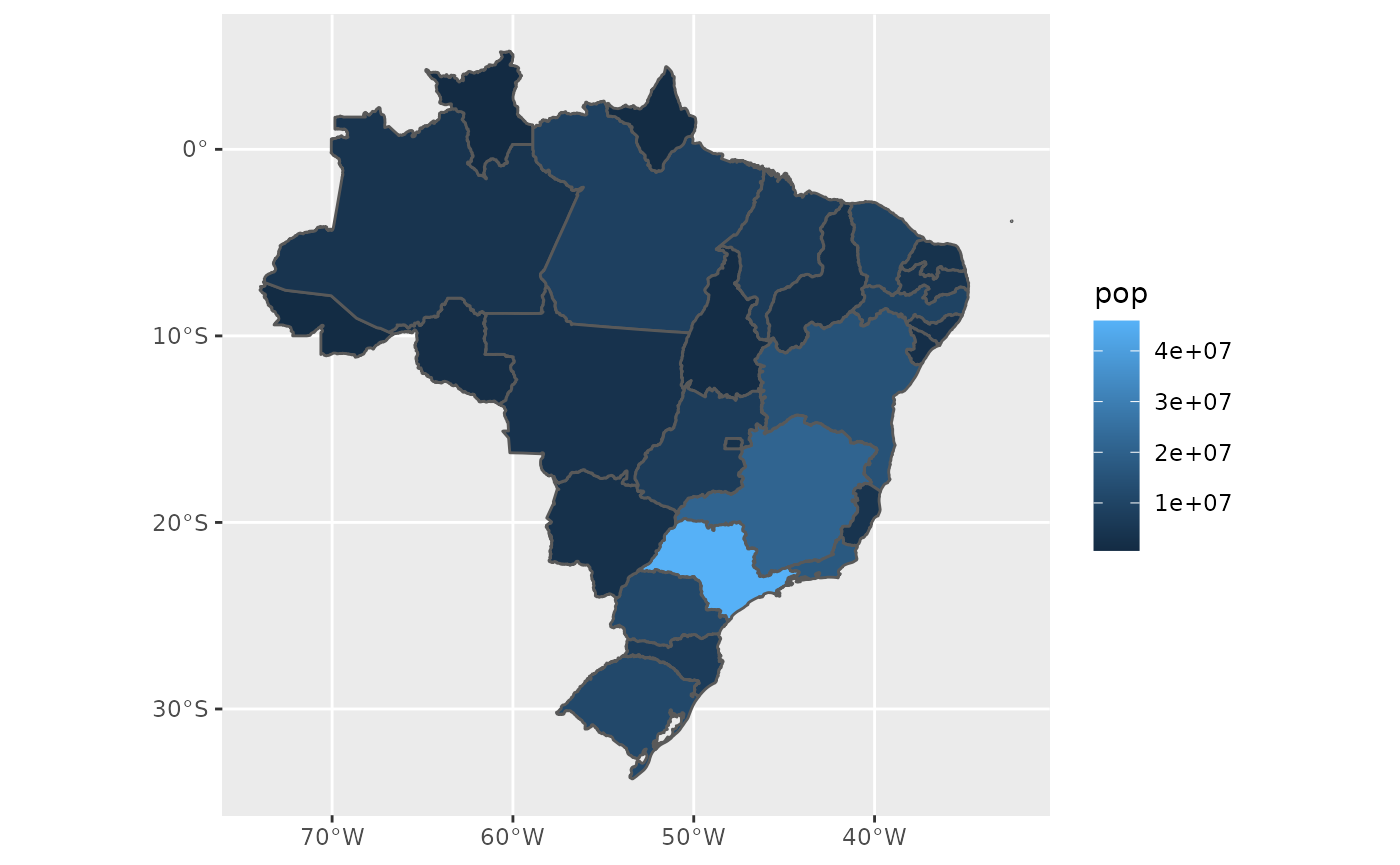
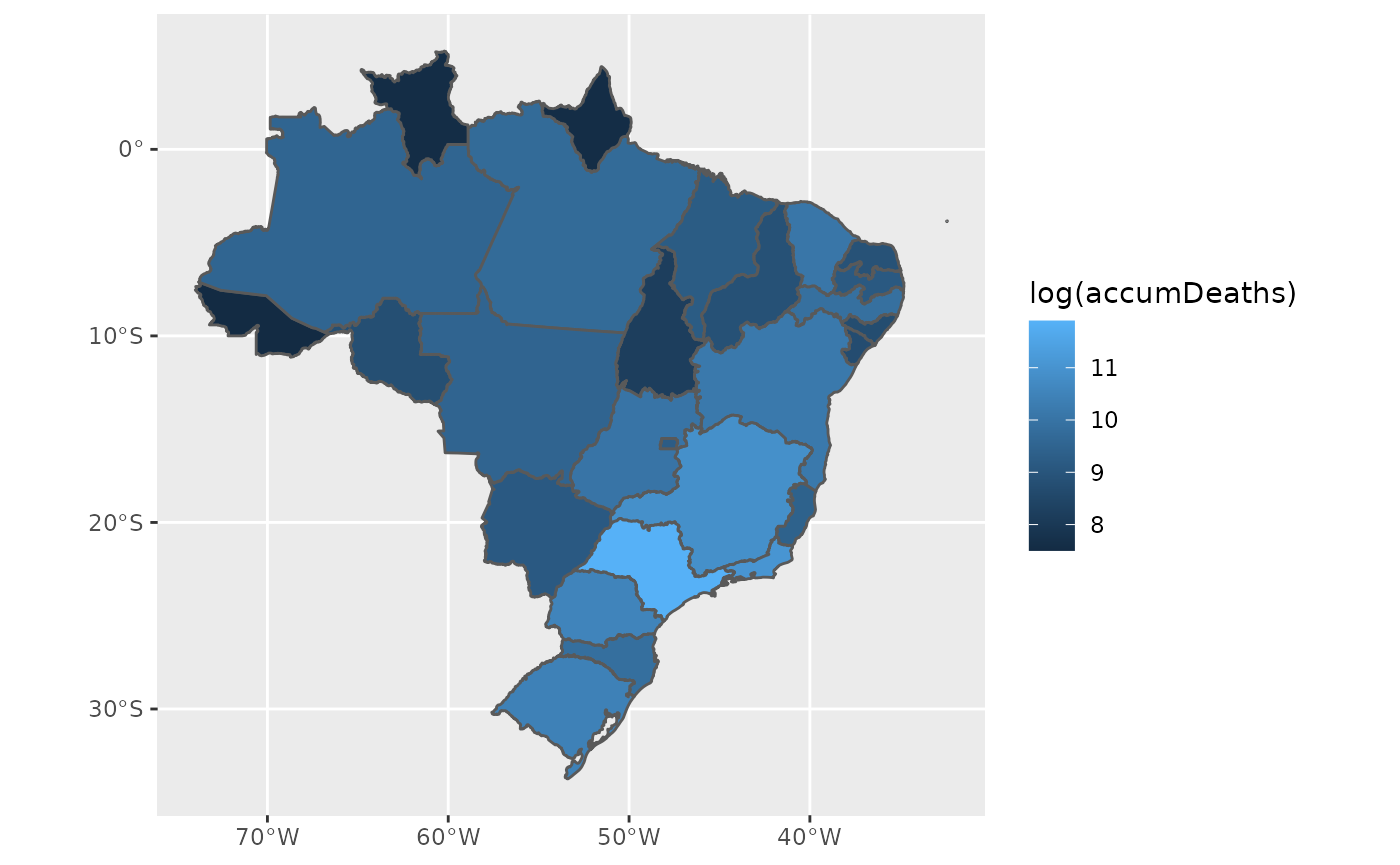
Built site for covid19br: 0.1.2@480e842

diff --git a/articles/maps.html b/articles/maps.html
@@ -5,13 +5,13 @@
 <meta charset="utf-8">
 <meta http-equiv="X-UA-Compatible" content="IE=edge">
 <meta name="viewport" content="width=device-width, initial-scale=1.0">
-<title>Drawing maps with covid19br package • covid19br</title>
+<title>Drawing maps with the covid19br package • covid19br</title>
 <!-- jquery --><script src="https://cdnjs.cloudflare.com/ajax/libs/jquery/3.4.1/jquery.min.js" integrity="sha256-CSXorXvZcTkaix6Yvo6HppcZGetbYMGWSFlBw8HfCJo=" crossorigin="anonymous"></script><!-- Bootstrap --><link rel="stylesheet" href="https://cdnjs.cloudflare.com/ajax/libs/twitter-bootstrap/3.4.1/css/bootstrap.min.css" integrity="sha256-bZLfwXAP04zRMK2BjiO8iu9pf4FbLqX6zitd+tIvLhE=" crossorigin="anonymous">
 <script src="https://cdnjs.cloudflare.com/ajax/libs/twitter-bootstrap/3.4.1/js/bootstrap.min.js" integrity="sha256-nuL8/2cJ5NDSSwnKD8VqreErSWHtnEP9E7AySL+1ev4=" crossorigin="anonymous"></script><!-- bootstrap-toc --><link rel="stylesheet" href="../bootstrap-toc.css">
 <script src="../bootstrap-toc.js"></script><!-- Font Awesome icons --><link rel="stylesheet" href="https://cdnjs.cloudflare.com/ajax/libs/font-awesome/5.12.1/css/all.min.css" integrity="sha256-mmgLkCYLUQbXn0B1SRqzHar6dCnv9oZFPEC1g1cwlkk=" crossorigin="anonymous">
 <link rel="stylesheet" href="https://cdnjs.cloudflare.com/ajax/libs/font-awesome/5.12.1/css/v4-shims.min.css" integrity="sha256-wZjR52fzng1pJHwx4aV2AO3yyTOXrcDW7jBpJtTwVxw=" crossorigin="anonymous">
 <!-- clipboard.js --><script src="https://cdnjs.cloudflare.com/ajax/libs/clipboard.js/2.0.6/clipboard.min.js" integrity="sha256-inc5kl9MA1hkeYUt+EC3BhlIgyp/2jDIyBLS6k3UxPI=" crossorigin="anonymous"></script><!-- headroom.js --><script src="https://cdnjs.cloudflare.com/ajax/libs/headroom/0.11.0/headroom.min.js" integrity="sha256-AsUX4SJE1+yuDu5+mAVzJbuYNPHj/WroHuZ8Ir/CkE0=" crossorigin="anonymous"></script><script src="https://cdnjs.cloudflare.com/ajax/libs/headroom/0.11.0/jQuery.headroom.min.js" integrity="sha256-ZX/yNShbjqsohH1k95liqY9Gd8uOiE1S4vZc+9KQ1K4=" crossorigin="anonymous"></script><!-- pkgdown --><link href="../pkgdown.css" rel="stylesheet">
-<script src="../pkgdown.js"></script><meta property="og:title" content="Drawing maps with covid19br package">
+<script src="../pkgdown.js"></script><meta property="og:title" content="Drawing maps with the covid19br package">
 <meta property="og:description" content="covid19br">
 <!-- mathjax --><script src="https://cdnjs.cloudflare.com/ajax/libs/mathjax/2.7.5/MathJax.js" integrity="sha256-nvJJv9wWKEm88qvoQl9ekL2J+k/RWIsaSScxxlsrv8k=" crossorigin="anonymous"></script><script src="https://cdnjs.cloudflare.com/ajax/libs/mathjax/2.7.5/config/TeX-AMS-MML_HTMLorMML.js" integrity="sha256-84DKXVJXs0/F8OTMzX4UR909+jtl4G7SPypPavF+GfA=" crossorigin="anonymous"></script><!--[if lt IE 9]>
 <script src="https://oss.maxcdn.com/html5shiv/3.7.3/html5shiv.min.js"></script>
@@ -57,7 +57,7 @@
   </a>
   <ul class="dropdown-menu" role="menu">
 <li>
-      <a href="../articles/maps.html">Drawing maps with covid19br package</a>
+      <a href="../articles/maps.html">Drawing maps with the covid19br package</a>
     </li>
   </ul>
 </li>
@@ -85,7 +85,7 @@
       </header><script src="maps_files/accessible-code-block-0.0.1/empty-anchor.js"></script><div class="row">
   <div class="col-md-9 contents">
     <div class="page-header toc-ignore">
-      <h1 data-toc-skip>Drawing maps with covid19br package</h1>
+      <h1 data-toc-skip>Drawing maps with the covid19br package</h1>
             
       
       <small class="dont-index">Source: <a href="https://github.com/fndemarqui/covid19br/blob/master/vignettes/maps.Rmd"><code>vignettes/maps.Rmd</code></a></small>
@@ -103,20 +103,18 @@
 <span class="kw"><a href="https://rdrr.io/r/base/library.html">library</a></span><span class="op">(</span><span class="va"><a href="https://tidyverse.tidyverse.org">tidyverse</a></span><span class="op">)</span>
 <span class="kw"><a href="https://rdrr.io/r/base/library.html">library</a></span><span class="op">(</span><span class="va"><a href="https://r-spatial.github.io/sf/">sf</a></span><span class="op">)</span>
 
-<span class="va">states</span> <span class="op">&lt;-</span> <span class="fu"><a href="../reference/downloadCovid19.html">downloadCovid19</a></span><span class="op">(</span><span class="st">"states"</span><span class="op">)</span>
-
-<span class="va">states</span>  <span class="op">&lt;-</span> <span class="va">states</span> <span class="op">%&gt;%</span>
+<span class="va">states</span> <span class="op">&lt;-</span> <span class="fu"><a href="../reference/downloadCovid19.html">downloadCovid19</a></span><span class="op">(</span><span class="st">"states"</span><span class="op">)</span> <span class="op">%&gt;%</span>
   <span class="fu"><a href="https://rdrr.io/r/stats/filter.html">filter</a></span><span class="op">(</span><span class="va">date</span> <span class="op">==</span> <span class="fu"><a href="https://rdrr.io/r/base/Extremes.html">max</a></span><span class="op">(</span><span class="va">date</span><span class="op">)</span><span class="op">)</span> <span class="op">%&gt;%</span>
-  <span class="fu">left_join</span><span class="op">(</span><span class="va">ibgeStates</span>, by <span class="op">=</span> <span class="fu"><a href="https://rdrr.io/r/base/c.html">c</a></span><span class="op">(</span><span class="st">"state_code"</span>, <span class="st">"state"</span>, <span class="st">"pop"</span>, <span class="st">"region"</span><span class="op">)</span><span class="op">)</span> <span class="op">%&gt;%</span>
-  <span class="fu"><a href="https://r-spatial.github.io/sf/reference/st_as_sf.html">st_as_sf</a></span><span class="op">(</span><span class="op">)</span>
+  <span class="fu"><a href="../reference/add_geo.html">add_geo</a></span><span class="op">(</span><span class="op">)</span>
+
 
 <span class="fu">ggplot</span><span class="op">(</span><span class="va">states</span><span class="op">)</span> <span class="op">+</span>
-  <span class="fu">geom_sf</span><span class="op">(</span><span class="fu">aes</span><span class="op">(</span>fill <span class="op">=</span> <span class="va">pop</span><span class="op">)</span><span class="op">)</span> </code></pre></div>
+  <span class="fu">geom_sf</span><span class="op">(</span><span class="fu">aes</span><span class="op">(</span>fill <span class="op">=</span> <span class="fu"><a href="https://rdrr.io/r/base/Log.html">log</a></span><span class="op">(</span><span class="va">accumDeaths</span><span class="op">)</span><span class="op">)</span><span class="op">)</span> </code></pre></div>
 <p><img src="maps_files/figure-html/setup-1.png" width="700"></p>
 <div class="sourceCode" id="cb2"><pre class="downlit sourceCode r">
 <code class="sourceCode R">
 <span class="fu">ggplot</span><span class="op">(</span><span class="va">states</span><span class="op">)</span> <span class="op">+</span>
-  <span class="fu">geom_sf</span><span class="op">(</span><span class="fu">aes</span><span class="op">(</span>fill <span class="op">=</span> <span class="va">pop</span><span class="op">)</span><span class="op">)</span> <span class="op">+</span>
+  <span class="fu">geom_sf</span><span class="op">(</span><span class="fu">aes</span><span class="op">(</span>fill <span class="op">=</span> <span class="fu"><a href="https://rdrr.io/r/base/Log.html">log</a></span><span class="op">(</span><span class="va">accumDeaths</span><span class="op">)</span><span class="op">)</span><span class="op">)</span> <span class="op">+</span>
   <span class="fu">scale_fill_gradient2</span><span class="op">(</span>low <span class="op">=</span> <span class="st">"red"</span>, high <span class="op">=</span> <span class="st">"red"</span>, na.value <span class="op">=</span> <span class="cn">NA</span><span class="op">)</span></code></pre></div>
 <p><img src="maps_files/figure-html/setup-2.png" width="700"></p>
   </div>

diff --git a/reference/add_geo.html b/reference/add_geo.html
@@ -6,7 +6,7 @@
 <meta http-equiv="X-UA-Compatible" content="IE=edge">
 <meta name="viewport" content="width=device-width, initial-scale=1.0">
 
-<title>City-level georeferenced data — ibgeCities • covid19br</title>
+<title>Addition to Georeferenced data — add_geo • covid19br</title>
 
 
 <!-- jquery -->
@@ -39,8 +39,8 @@
 
 
 
-<meta property="og:title" content="City-level georeferenced data — ibgeCities" />
-<meta property="og:description" content="Data set obtaind from the Instituto Brasileiro de Geografia e Estatística (IBGE) with data on the Brazilian population and geographical information on city level." />
+<meta property="og:title" content="Addition to Georeferenced data — add_geo" />
+<meta property="og:description" content="Addition to Georeferenced data" />
 
 
 
@@ -126,42 +126,33 @@
 <div class="row">
   <div class="col-md-9 contents">
     <div class="page-header">
-    <h1>City-level georeferenced data</h1>
-    <small class="dont-index">Source: <a href='https://github.com/fndemarqui/covid19br/blob/master/R/data_doc.R'><code>R/data_doc.R</code></a></small>
-    <div class="hidden name"><code>ibgeCities.Rd</code></div>
+    <h1>Addition to Georeferenced data</h1>
+    <small class="dont-index">Source: <a href='https://github.com/fndemarqui/covid19br/blob/master/R/utils.R'><code>R/utils.R</code></a></small>
+    <div class="hidden name"><code>add_geo.Rd</code></div>
     </div>
 
     <div class="ref-description">
-    <p>Data set obtaind from the Instituto Brasileiro de Geografia e Estatística (IBGE) with data on the Brazilian population and geographical information on city level.</p>
+    <p>Addition to Georeferenced data</p>
     </div>
 
+    <pre class="usage"><span class='fu'>add_geo</span><span class='op'>(</span><span class='va'>data</span>, <span class='va'>...</span><span class='op'>)</span></pre>
 
+    <h2 class="hasAnchor" id="arguments"><a class="anchor" href="#arguments"></a>Arguments</h2>
+    <table class="ref-arguments">
+    <colgroup><col class="name" /><col class="desc" /></colgroup>
+    <tr>
+      <th>data</th>
+      <td><p>data set downloaded from covid19br::downloadCovid19() function.</p></td>
+    </tr>
+    <tr>
+      <th>...</th>
+      <td><p>further arguments passed to other methods.</p></td>
+    </tr>
+    </table>
 
-    <h2 class="hasAnchor" id="format"><a class="anchor" href="#format"></a>Format</h2>
+    <h2 class="hasAnchor" id="value"><a class="anchor" href="#value"></a>Value</h2>
 
-    <p>A data frame with 5570 rows and 10 variables:</p><ul>
-<li><p>region: regions' names</p></li>
-<li><p>state: states' names.</p></li>
-<li><p>city: cities' names.</p></li>
-<li><p>pop: estimated population in 2019.</p></li>
-<li><p>region_code: numerical code attributed to regions</p></li>
-<li><p>state_code: numerical code attributed to states</p></li>
-<li><p>mesoregion_code: numerical code attributed to mesoregions</p></li>
-<li><p>microregion_code: numerical code attributed to microregions</p></li>
-<li><p>city_code: numerical code attributed to cities</p></li>
-<li><p>geometry: georeferenced data needed to plot maps.</p></li>
-</ul>
-
-    <h2 class="hasAnchor" id="source"><a class="anchor" href="#source"></a>Source</h2>
-
-    <p>Instituto Brasileiro de Geografia e Estatística (IBGE):</p><ul>
-<li><p>Shapefiles: <a href='https://www.ibge.gov.br/geociencias/downloads-geociencias.html'>https://www.ibge.gov.br/geociencias/downloads-geociencias.html</a></p></li>
-<li><p>Population: <a href='https://www.ibge.gov.br/estatisticas/sociais/populacao/9103-estimativas-de-populacao.html?=&amp;t=resultados'>https://www.ibge.gov.br/estatisticas/sociais/populacao/9103-estimativas-de-populacao.html?=&amp;t=resultados</a></p></li>
-</ul>
-
-    <h2 class="hasAnchor" id="author"><a class="anchor" href="#author"></a>Author</h2>
-
-    <p>Fabio N. Demarqui <a href='mailto:fndemarqui@est.ufmg.br'>fndemarqui@est.ufmg.br</a></p>
+    <p>the data set with the added georeferenced data.</p>
 
   </div>
   <div class="col-md-3 hidden-xs hidden-sm" id="pkgdown-sidebar">

diff --git a/articles/covid19br.html b/articles/covid19br.html
@@ -57,7 +57,7 @@
   </a>
   <ul class="dropdown-menu" role="menu">
 <li>
-      <a href="../articles/maps.html">Drawing maps with covid19br package</a>
+      <a href="../articles/maps.html">Drawing maps with the covid19br package</a>
     </li>
   </ul>
 </li>
@@ -116,6 +116,16 @@
 <h1 class="hasAnchor">
 <a href="#getting-started-with-covid19br-r-package" class="anchor"></a>Getting started with covid19br R package</h1>
 <p>We will get started by showing how to use the package to load into R data sets of the COVID-19 pandemic by downloading the COVID-19 data set from the official Brazilian repository <a href="https://covid.saude.gov.br">https://covid.saude.gov.br</a></p>
+<div class="sourceCode" id="cb1"><pre class="downlit sourceCode r">
+<code class="sourceCode R"><span class="kw"><a href="https://rdrr.io/r/base/library.html">library</a></span><span class="op">(</span><span class="va"><a href="https://fndemarqui.github.io/covid19br/">covid19br</a></span><span class="op">)</span>
+<span class="kw"><a href="https://rdrr.io/r/base/library.html">library</a></span><span class="op">(</span><span class="va"><a href="https://tidyverse.tidyverse.org">tidyverse</a></span><span class="op">)</span>
+
+<span class="va">brazil</span> <span class="op">&lt;-</span> <span class="fu"><a href="../reference/downloadCovid19.html">downloadCovid19</a></span><span class="op">(</span><span class="st">"brazil"</span><span class="op">)</span>
+
+<span class="fu">ggplot</span><span class="op">(</span><span class="va">brazil</span>, <span class="fu">aes</span><span class="op">(</span>x <span class="op">=</span> <span class="va">date</span>, y <span class="op">=</span> <span class="va">accumDeaths</span><span class="op">)</span><span class="op">)</span> <span class="op">+</span>
+  <span class="fu">geom_point</span><span class="op">(</span><span class="op">)</span> <span class="op">+</span>
+  <span class="fu">geom_path</span><span class="op">(</span><span class="op">)</span></code></pre></div>
+<p><img src="covid19br_files/figure-html/unnamed-chunk-2-1.png" width="700"></p>
 </div>
   </div>
 

diff --git a/articles/index.html b/articles/index.html
@@ -97,7 +97,7 @@
   </a>
   <ul class="dropdown-menu" role="menu">
     <li>
-      <a href="../articles/maps.html">Drawing maps with covid19br package</a>
+      <a href="../articles/maps.html">Drawing maps with the covid19br package</a>
     </li>
   </ul>
 </li>
@@ -135,7 +135,7 @@
       <dl>
         <dt><a href="covid19br.html">Introduction to the covid19br package</a></dt>
         <dd></dt>
-        <dt><a href="maps.html">Drawing maps with covid19br package</a></dt>
+        <dt><a href="maps.html">Drawing maps with the covid19br package</a></dt>
         <dd></dt>
       </dl>
     </div>

diff --git a/reference/index.html b/reference/index.html
@@ -97,7 +97,7 @@
   </a>
   <ul class="dropdown-menu" role="menu">
     <li>
-      <a href="../articles/maps.html">Drawing maps with covid19br package</a>
+      <a href="../articles/maps.html">Drawing maps with the covid19br package</a>
     </li>
   </ul>
 </li>
@@ -149,6 +149,12 @@
       
       
       <tr>
+        
+        <td>
+          <p><code><a href="add_geo.html">add_geo()</a></code> </p>
+        </td>
+        <td><p>Addition to Georeferenced data</p></td>
+      </tr><tr>
         
         <td>
           <p><code><a href="covid19br.html">covid19br</a></code> </p>

diff --git a/news/index.html b/news/index.html
@@ -97,7 +97,7 @@
   </a>
   <ul class="dropdown-menu" role="menu">
     <li>
-      <a href="../articles/maps.html">Drawing maps with covid19br package</a>
+      <a href="../articles/maps.html">Drawing maps with the covid19br package</a>
     </li>
   </ul>
 </li>

diff --git a/reference/covid19br.html b/reference/covid19br.html
@@ -98,7 +98,7 @@
   </a>
   <ul class="dropdown-menu" role="menu">
     <li>
-      <a href="../articles/maps.html">Drawing maps with covid19br package</a>
+      <a href="../articles/maps.html">Drawing maps with the covid19br package</a>
     </li>
   </ul>
 </li>

diff --git a/reference/downloadCovid19.html b/reference/downloadCovid19.html
@@ -98,7 +98,7 @@
   </a>
   <ul class="dropdown-menu" role="menu">
     <li>
-      <a href="../articles/maps.html">Drawing maps with covid19br package</a>
+      <a href="../articles/maps.html">Drawing maps with the covid19br package</a>
     </li>
   </ul>
 </li>

diff --git a/reference/ibgeRegions.html b/reference/ibgeRegions.html
@@ -98,7 +98,7 @@
   </a>
   <ul class="dropdown-menu" role="menu">
     <li>
-      <a href="../articles/maps.html">Drawing maps with covid19br package</a>
+      <a href="../articles/maps.html">Drawing maps with the covid19br package</a>
     </li>
   </ul>
 </li>

diff --git a/reference/ibgeStates.html b/reference/ibgeStates.html
@@ -98,7 +98,7 @@
   </a>
   <ul class="dropdown-menu" role="menu">
     <li>
-      <a href="../articles/maps.html">Drawing maps with covid19br package</a>
+      <a href="../articles/maps.html">Drawing maps with the covid19br package</a>
     </li>
   </ul>
 </li>

diff --git a/reference/mundi.html b/reference/mundi.html
@@ -98,7 +98,7 @@
   </a>
   <ul class="dropdown-menu" role="menu">
     <li>
-      <a href="../articles/maps.html">Drawing maps with covid19br package</a>
+      <a href="../articles/maps.html">Drawing maps with the covid19br package</a>
     </li>
   </ul>
 </li>

diff --git a/404.html b/404.html
@@ -97,7 +97,7 @@
   </a>
   <ul class="dropdown-menu" role="menu">
     <li>
-      <a href="articles/maps.html">Drawing maps with covid19br package</a>
+      <a href="articles/maps.html">Drawing maps with the covid19br package</a>
     </li>
   </ul>
 </li>
